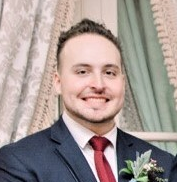
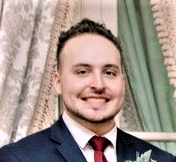
Commit changes for Ed to work on redux

diff --git a/cernera_me/src/components/pages/projects/ProjectsPageGregory.tsx b/cernera_me/src/components/pages/projects/ProjectsPageGregory.tsx
@@ -5,6 +5,7 @@ import { SocialMediaUsernames } from "types";
 import Sidebar from "components/sidebar/Sidebar";
 import MainTextBlock from "components/text/MainTextBlock";
 import styles from 'components/pages/LandingPage.module.scss';
+import genStyle from "components/General.module.scss";
 
 import { getGitHubRepositoriesAction } from "store/actions/actionCreators";
 import { RepositoryCardList } from "components/github/RepositoryCardList";
@@ -20,19 +21,19 @@ const ProjectsPageGregory = ({ user, social }: { user: string, social: SocialMed
     }, []);
 
     const textBody = `
-        This is Greg's projects page. NEEDS TO BE IMPLEMENTED...
+        Here are some of my public repositories on GitHub
         `
 
     return (
-        <div id="ProjectsPageGregory" className={styles["landing-page"]}>
+        <div id="ProjectsPage" className={styles["landing-page"]}>
             <Sidebar sm={true} slideIn={false} user={user} social={social} />
             <div className={styles["landing-page__content"]}>
                 <Container className={styles["landing-page__content__container"]}>
                     <Row className={styles["landing-page__content__container__content"]}>
-                        <Col md={6} className={styles["landing-page__content__container__vertical-center"]}>
-                            <MainTextBlock title={"My Projects"} text={textBody} fadeIn={true} />
+                        <Col md={6} className={genStyle["vertical-center"]}>
+                            <MainTextBlock title={"My projects"} text={textBody} fadeIn={true} />
                         </Col>
-                        <Col md={6} className={styles["landing-page__content__container__vertical-center"]}>
+                        <Col md={6} className={genStyle["vertical-center"]}>
                             <RepositoryCardList repositories={store.gitHub.repositories} />
                         </Col>
                     </Row>

diff --git a/cernera_me/src/components/pages/contact/ContactItem.module.scss b/cernera_me/src/components/pages/contact/ContactItem.module.scss
@@ -47,15 +47,16 @@
           
           &__copy-button:after {
             content: "";
-            background: #f1f1f1;
+            background: white;
             display: block;
             position: absolute;
-            padding-top: 30%;
-            padding-left: 50%;
+            padding-top: 19%;
+            padding-left: 25%;
+            padding-right: 10%;
             margin-left: -25px !important;
-            margin-top: -20%;
+            margin-top: -13%;
             opacity: 0;
-            transition: all 0.8s
+            transition: all 0.4s
           }
           
           &__copy-button:active:after {
@@ -63,6 +64,10 @@
             margin: 0;
             opacity: 1;
             transition: 0s
+          }
+
+          &__copy-button:focus {
+              outline: none
           }
     
         &__text {

diff --git a/cernera_me/src/components/pages/LandingPage.tsx b/cernera_me/src/components/pages/LandingPage.tsx
@@ -9,7 +9,7 @@ import UserCard from "components/user/UserCard";
 import MainNav from "components/nav/MainNav";
 import style from './LandingPage.module.scss';
 import ed_profile_pic from "assets/images/ed_profile_pic.png";
-import greg_profile_pic from "assets/images/greg_profile_pic.jpg";
+import greg_profile_pic from "assets/images/greg_profile_pic2.png";
 import tom_profile_pic from "assets/images/tom_profile_pic.jpg";
 import { socialUsernames, socialUsernamesGregory, socialUsernamesThomas } from "info/userInfo";
 

diff --git a/cernera_me/src/info/userInfo.ts b/cernera_me/src/info/userInfo.ts
@@ -35,14 +35,14 @@ export const experienceGregory = [
         name: `IBM`,
         title: `Back-End Software Developer Intern`,
         subtitle: `May 2019 - Present`,
-        logo: 'ibm6.png'
+        logo: 'ibm.png'
     },
 
     {
         name: `Avlino, Inc.`,
         title: `Software Enginner Intern`,
         subtitle: `May 2017 - August 2018`,
-        logo: 'avlino2.png'
+        logo: 'Avlino-Logo-RGB-Cyber-Yellow-Onyx.png'
     },
 
     {

diff --git a/cernera_me/src/components/pages/users/gregory/GregoryLandingPage.tsx b/cernera_me/src/components/pages/users/gregory/GregoryLandingPage.tsx
@@ -52,7 +52,7 @@ const GregoryLandingPage: React.FC = () => {
 
     useEffect(() => {
         console.log("Getting GitHub Repositories on load...")
-        dispatch(getGitHubRepositoriesAction("cernerae"));
+        dispatch(getGitHubRepositoriesAction("gregorycernera"));
         const interval = setInterval(() => {
             console.log("Image Loop Index: " + imageLoopIndex);
             setImageLoopIndex(imageLoopIndex => {
